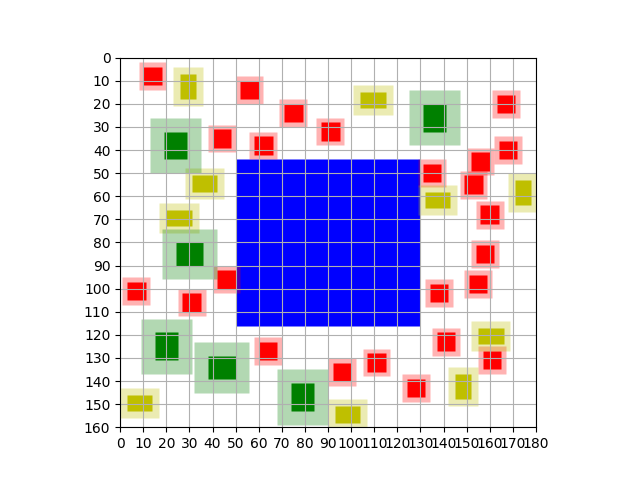
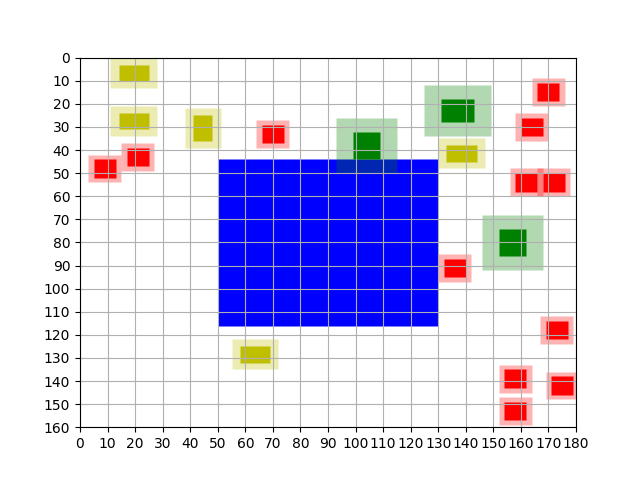
Minor changes in visualize

Changed region(s): [[0.0625, 0.0938, 0.9375, 0.9375], [0.0625, 0.5, 0.1875, 0.5625], [0.0938, 0.0938, 0.125, 0.125]]

diff --git a/main.py b/main.py
@@ -1,44 +1,24 @@
 from code.classes import grid, house # niet nodig? 
 from code.visualization import visualize as vis
 from code.algorithms import randomize as rz
-from code.algorithms import greedy as gr
-
+# from code.algorithms import greedy as gr
 
 if __name__ == "__main__":
 
-	quantity = 20
-	map_source = "data/wijken/wijk_3.csv"
+    quantity = 20
+    map_source = "data/wijken/wijk_3.csv"
 
-	# Create grid from data
-	test_grid = grid.Grid(quantity, map_source)
+    # Create grid from data
+    test_grid = grid.Grid(quantity, map_source)
 
-	# ----------------------- Randomize algorithm ---------------------------------
-	# random_config = rz.random_assignment(test_grid)
+    # Value of grid 
+    # print(f"Value greedy config: {greedy.graph.value}")
+    random = rz.random_assignment(test_grid)
+    # Visualize case
+    vis.visualize(random)
 
-	# # print("New grid:")
-	# # print(random_config.cells)
-
-	# # Value of grid
-	# print(f"Value random config: {random_config.value}")
-
-	# # Visualize case
-	# vis.visualize(random_config)
-
-	# # Create csv output file
-	# random_config.create_output()
-
-	# ------------------------ Greedy algorithm -----------------------------------
-	greedy = gr.Greedy(test_grid)
-	greedy.run()
-
-	# Value of grid 
-	print(f"Value greedy config: {greedy.graph.value}")
-
-	# Visualize case
-	vis.visualize(greedy.graph)
-
-	# Create csv output file
-	greedy.graph.create_output()
+    # Create csv output file
+    # greedy.graph.create_output()
 
 
 

diff --git a/code/visualization/visualize.py b/code/visualization/visualize.py
@@ -12,7 +12,7 @@ def visualize(grid):
     """
 
     # Create diagram of size of map
-    plt.axis([0, grid.width, grid.depth, 0])
+    plt.plot([0, grid.width, grid.depth, 0])
     plt.xlabel("Width")
     plt.ylabel("Depth")
 
@@ -28,7 +28,6 @@ def visualize(grid):
 
     # Set grid properties
     plt.grid(True)
-    plt.gca().set_aspect("equal")
 
     # Create representation of water
     water_coord = grid.load_water()
